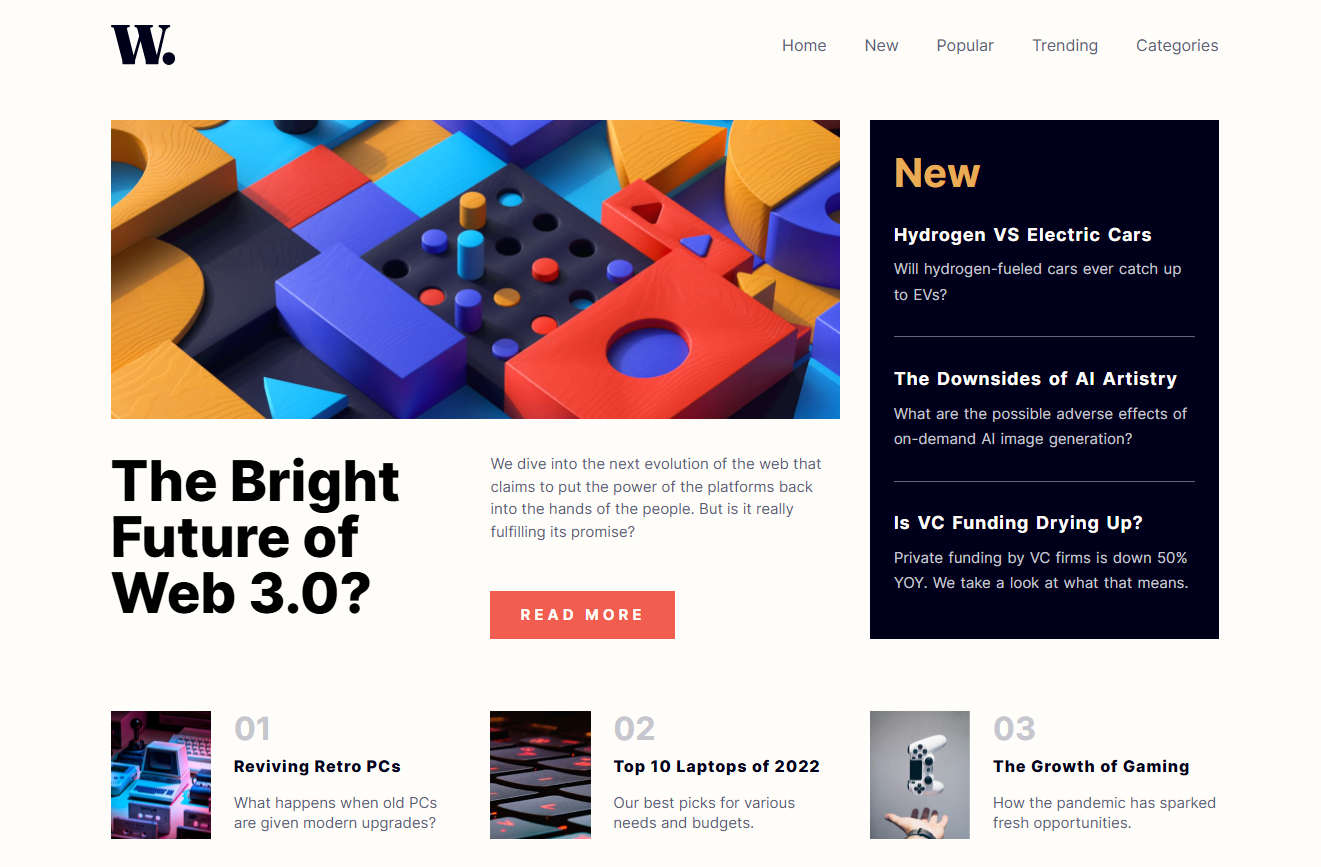
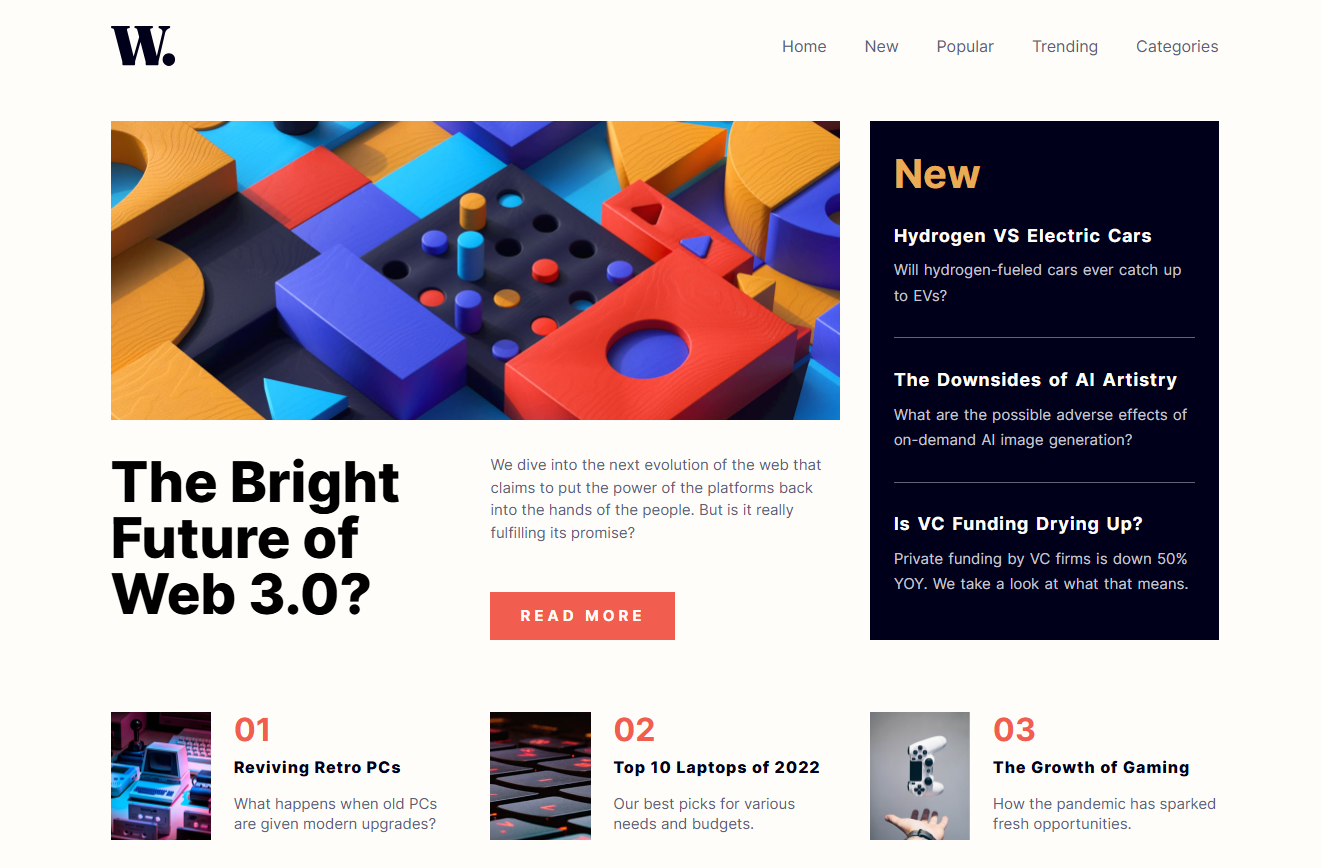
commit

diff --git a/styles.css b/styles.css
@@ -23,10 +23,12 @@
     margin: 0;
     padding: 0;
 }
+
 html,
 body {
     height: 100%;
 }
+
 body {
     -ms-overflow-style: none;
     scrollbar-width: none;
@@ -38,6 +40,7 @@ body {
     font-family: var(--inter-font);
     background-color: var(--light-cream);
 }
+
 body::-webkit-scrollbar {
     display: none;
 }
@@ -50,6 +53,7 @@ svg {
     display: block;
     max-width: 100%;
 }
+
 img {
     display: block;
 }
@@ -60,12 +64,14 @@ li {
     padding: 0;
     margin: 0;
 }
+
 input,
 button,
 textarea,
 select {
     font: inherit;
 }
+
 p,
 h1,
 h2,
@@ -80,11 +86,13 @@ h6 {
 #__next {
     isolation: isolate;
 }
+
 header,
 .post {
     display: flex;
     flex-direction: row;
 }
+
 .nav.active,
 .nav.active .menu,
 .featured,
@@ -98,6 +106,7 @@ header,
     display: flex;
     flex-direction: column;
 }
+
 /* Header */
 header {
     justify-content: space-between;
@@ -107,6 +116,7 @@ header {
     max-width: 1140px;
     margin: 0 auto;
 }
+
 main {
     display: grid;
     grid-template-columns: 1fr;
@@ -115,13 +125,19 @@ main {
     max-width: 1140px;
     margin: 0 auto;
 }
+
 nav ul {
     display: none;
     flex-direction: row;
     gap: 2.36rem;
 }
+
 nav {
     position: relative;
+}
+
+.no-heading {
+    color: var(--soft-red) !important;
 }
 
 .nav.active {
@@ -134,6 +150,7 @@ nav {
     background-color: var(--off-white);
     padding: 1rem;
 }
+
 .nav.active::after {
     display: inline-block;
     position: absolute;
@@ -145,20 +162,24 @@ nav {
     top: 0;
     left: -100%;
 }
+
 .hamburger {
     display: inline-block;
     cursor: pointer;
 }
+
 .nav.active .hamburger {
     position: absolute;
     right: 1rem;
     top: 1.72rem;
     content: url("./images/icon-menu-close.svg");
 }
+
 .nav.active .menu {
     gap: 1rem;
     margin-top: 50%;
 }
+
 nav ul li,
 nav ul li a {
     list-style: none;
@@ -175,11 +196,13 @@ nav ul li a {
     max-width: 45.6rem;
     margin: 0 auto;
 }
+
 .featured img {
     max-height: 18.8rem;
     object-fit: cover;
     object-position: top;
 }
+
 .featured section {
     gap: 1.9rem;
 }
@@ -187,11 +210,13 @@ nav ul li a {
 .featured section p {
     color: var(--dark-grayish-blue);
 }
+
 .featured h2 {
     font-weight: 800;
     font-size: 3.5rem;
     line-height: 3.5rem;
 }
+
 .featured a {
     padding: 0.8rem 1rem;
     text-transform: uppercase;
@@ -210,17 +235,21 @@ nav ul li a {
     background-color: var(--very-dark-blue);
     padding: 1.45rem;
 }
+
 .new-posts,
 .new-posts section {
     gap: 2rem;
 }
+
 .new h2 {
     color: var(--soft-orange);
     font-size: 2.5rem;
 }
+
 .new-posts {
     gap: 1.8rem;
 }
+
 .new-posts section {
     gap: 0.5rem;
 }
@@ -239,6 +268,7 @@ nav ul li a {
     word-spacing: 1px;
     line-height: 1.6rem;
 }
+
 .new-posts hr {
     height: 1px;
     background-color: var(--gsrayish-blue);
@@ -252,6 +282,7 @@ nav ul li a {
     margin-bottom: 4rem;
     justify-content: space-between;
 }
+
 .post {
     align-items: top;
     gap: 1.4rem;
@@ -260,19 +291,23 @@ nav ul li a {
     max-height: 8rem;
     height: 8rem;
 }
+
 .post-meta {
     gap: 1rem;
     line-height: 1.3rem;
     padding-top: 8px;
 }
+
 .post img {
     max-width: 100%;
 }
+
 .post h2 {
     color: var(--gsrayish-blue);
     font-size: 2rem;
     font-weight: 700;
 }
+
 .post h3 a {
     text-decoration: none;
     font-size: 1rem;
@@ -280,6 +315,7 @@ nav ul li a {
     letter-spacing: 1px;
     color: var(--very-dark-blue);
 }
+
 .post p {
     color: var(--dark-grayish-blue);
 }
@@ -290,20 +326,25 @@ nav ul li a,
 .featured section section a {
     transition: var(--transition);
 }
+
 @media (hover: hover) {
+
     .new-posts section h3:hover a,
     nav ul li a:hover,
     .post h3 a:hover,
     .featured section section a:hover {
         transition: var(--transition);
     }
+
     .new-posts section h3:hover a {
         color: var(--soft-orange);
     }
+
     nav ul li a:hover,
     .post h3 a:hover {
         color: var(--soft-red);
     }
+
     .featured section section a:hover {
         background-color: var(--very-dark-blue);
     }
@@ -314,10 +355,12 @@ nav ul li a,
         display: grid;
         grid-template-columns: repeat(2, 1fr);
     }
+
     .featured section section {
         gap: 3rem;
     }
 }
+
 @media screen and (min-width: 800px) {
     header {
         padding-top: 5.7rem;
@@ -327,9 +370,11 @@ nav ul li a,
     .featured img {
         content: url("./images//image-web-3-desktop.jpg");
     }
+
     .hamburger {
         display: none;
     }
+
     nav ul {
         display: flex;
     }
@@ -339,12 +384,15 @@ nav ul li a,
     .featured {
         grid-area: one;
     }
+
     .new {
         grid-area: two;
     }
+
     .posts {
         grid-area: three;
     }
+
     main {
         row-gap: 4.5rem;
         grid-template-columns: 45.6rem 1fr;
@@ -352,6 +400,7 @@ nav ul li a,
             "one two"
             "three three";
     }
+
     .posts {
         flex-direction: row;
     }

diff --git a/index.html b/index.html
@@ -67,7 +67,7 @@
       <section class="post">
         <img src="./images//image-retro-pcs.jpg" alt="Retro PC" />
         <section class="post-meta">
-          <h2>01</h2>
+          <h2 class="no-heading">01</h2>
           <h3><a href="/">Reviving Retro PCs</a></h3>
           <p>What happens when old PCs are given modern upgrades?</p>
         </section>
@@ -75,7 +75,7 @@
       <section class="post">
         <img src="./images/image-top-laptops.jpg" alt="Laptop keyboard" />
         <section class="post-meta">
-          <h2>02</h2>
+          <h2 class="no-heading">02</h2>
           <h3><a href="/">Top 10 Laptops of 2022</a></h3>
           <p>Our best picks for various needs and budgets.</p>
         </section>
@@ -83,7 +83,7 @@
       <section class="post">
         <img src="./images/image-gaming-growth.jpg" alt="Console controller" />
         <section class="post-meta">
-          <h2>03</h2>
+          <h2 class="no-heading">03</h2>
           <h3><a href="/">The Growth of Gaming</a></h3>
           <p>How the pandemic has sparked fresh opportunities.</p>
         </section>
